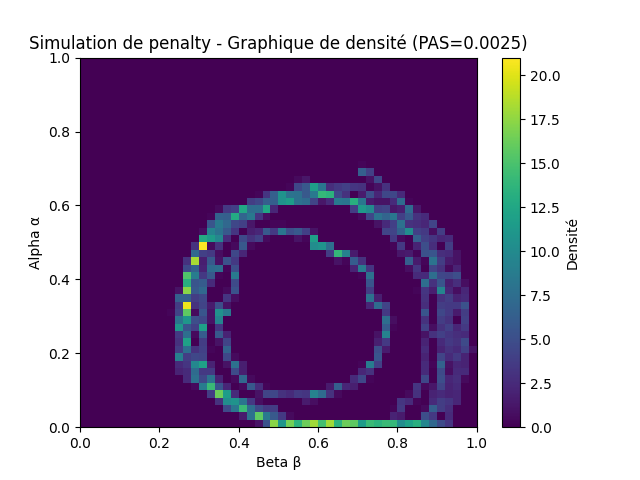
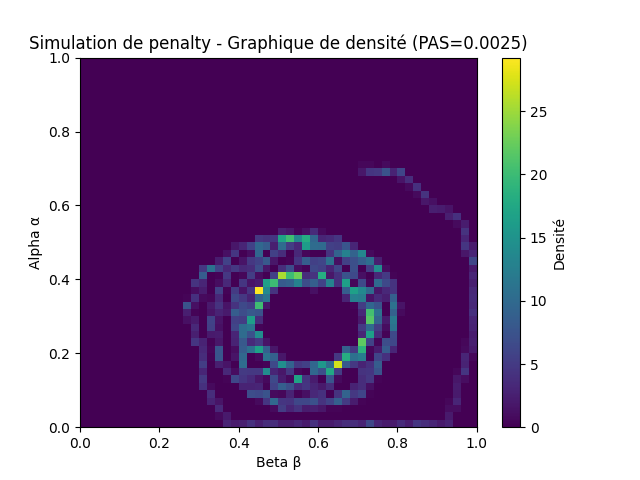
fix: 🐛 Increase simulation iterations for more accurate results
- Updated simulation iterations from 10,000 to 100,000 for both gardien and tireur
- Regenerated penalty simulation plots with updated iterations

diff --git a/TP2_penalty_simulation.py b/TP2_penalty_simulation.py
@@ -61,7 +61,7 @@ def main():
             total_gardien, total_tireur = simulation(100000, gardien, tireur)
             gardien.adapter(total_gardien)
 
-            total_gardien, total_tireur = simulation(10000, gardien, tireur)
+            total_gardien, total_tireur = simulation(100000, gardien, tireur)
             tireur.adapter(total_tireur)        
             #info(f"Alpha = {gardien.proba:.3f},\tBeta = {tireur.proba:.3f}")
 
